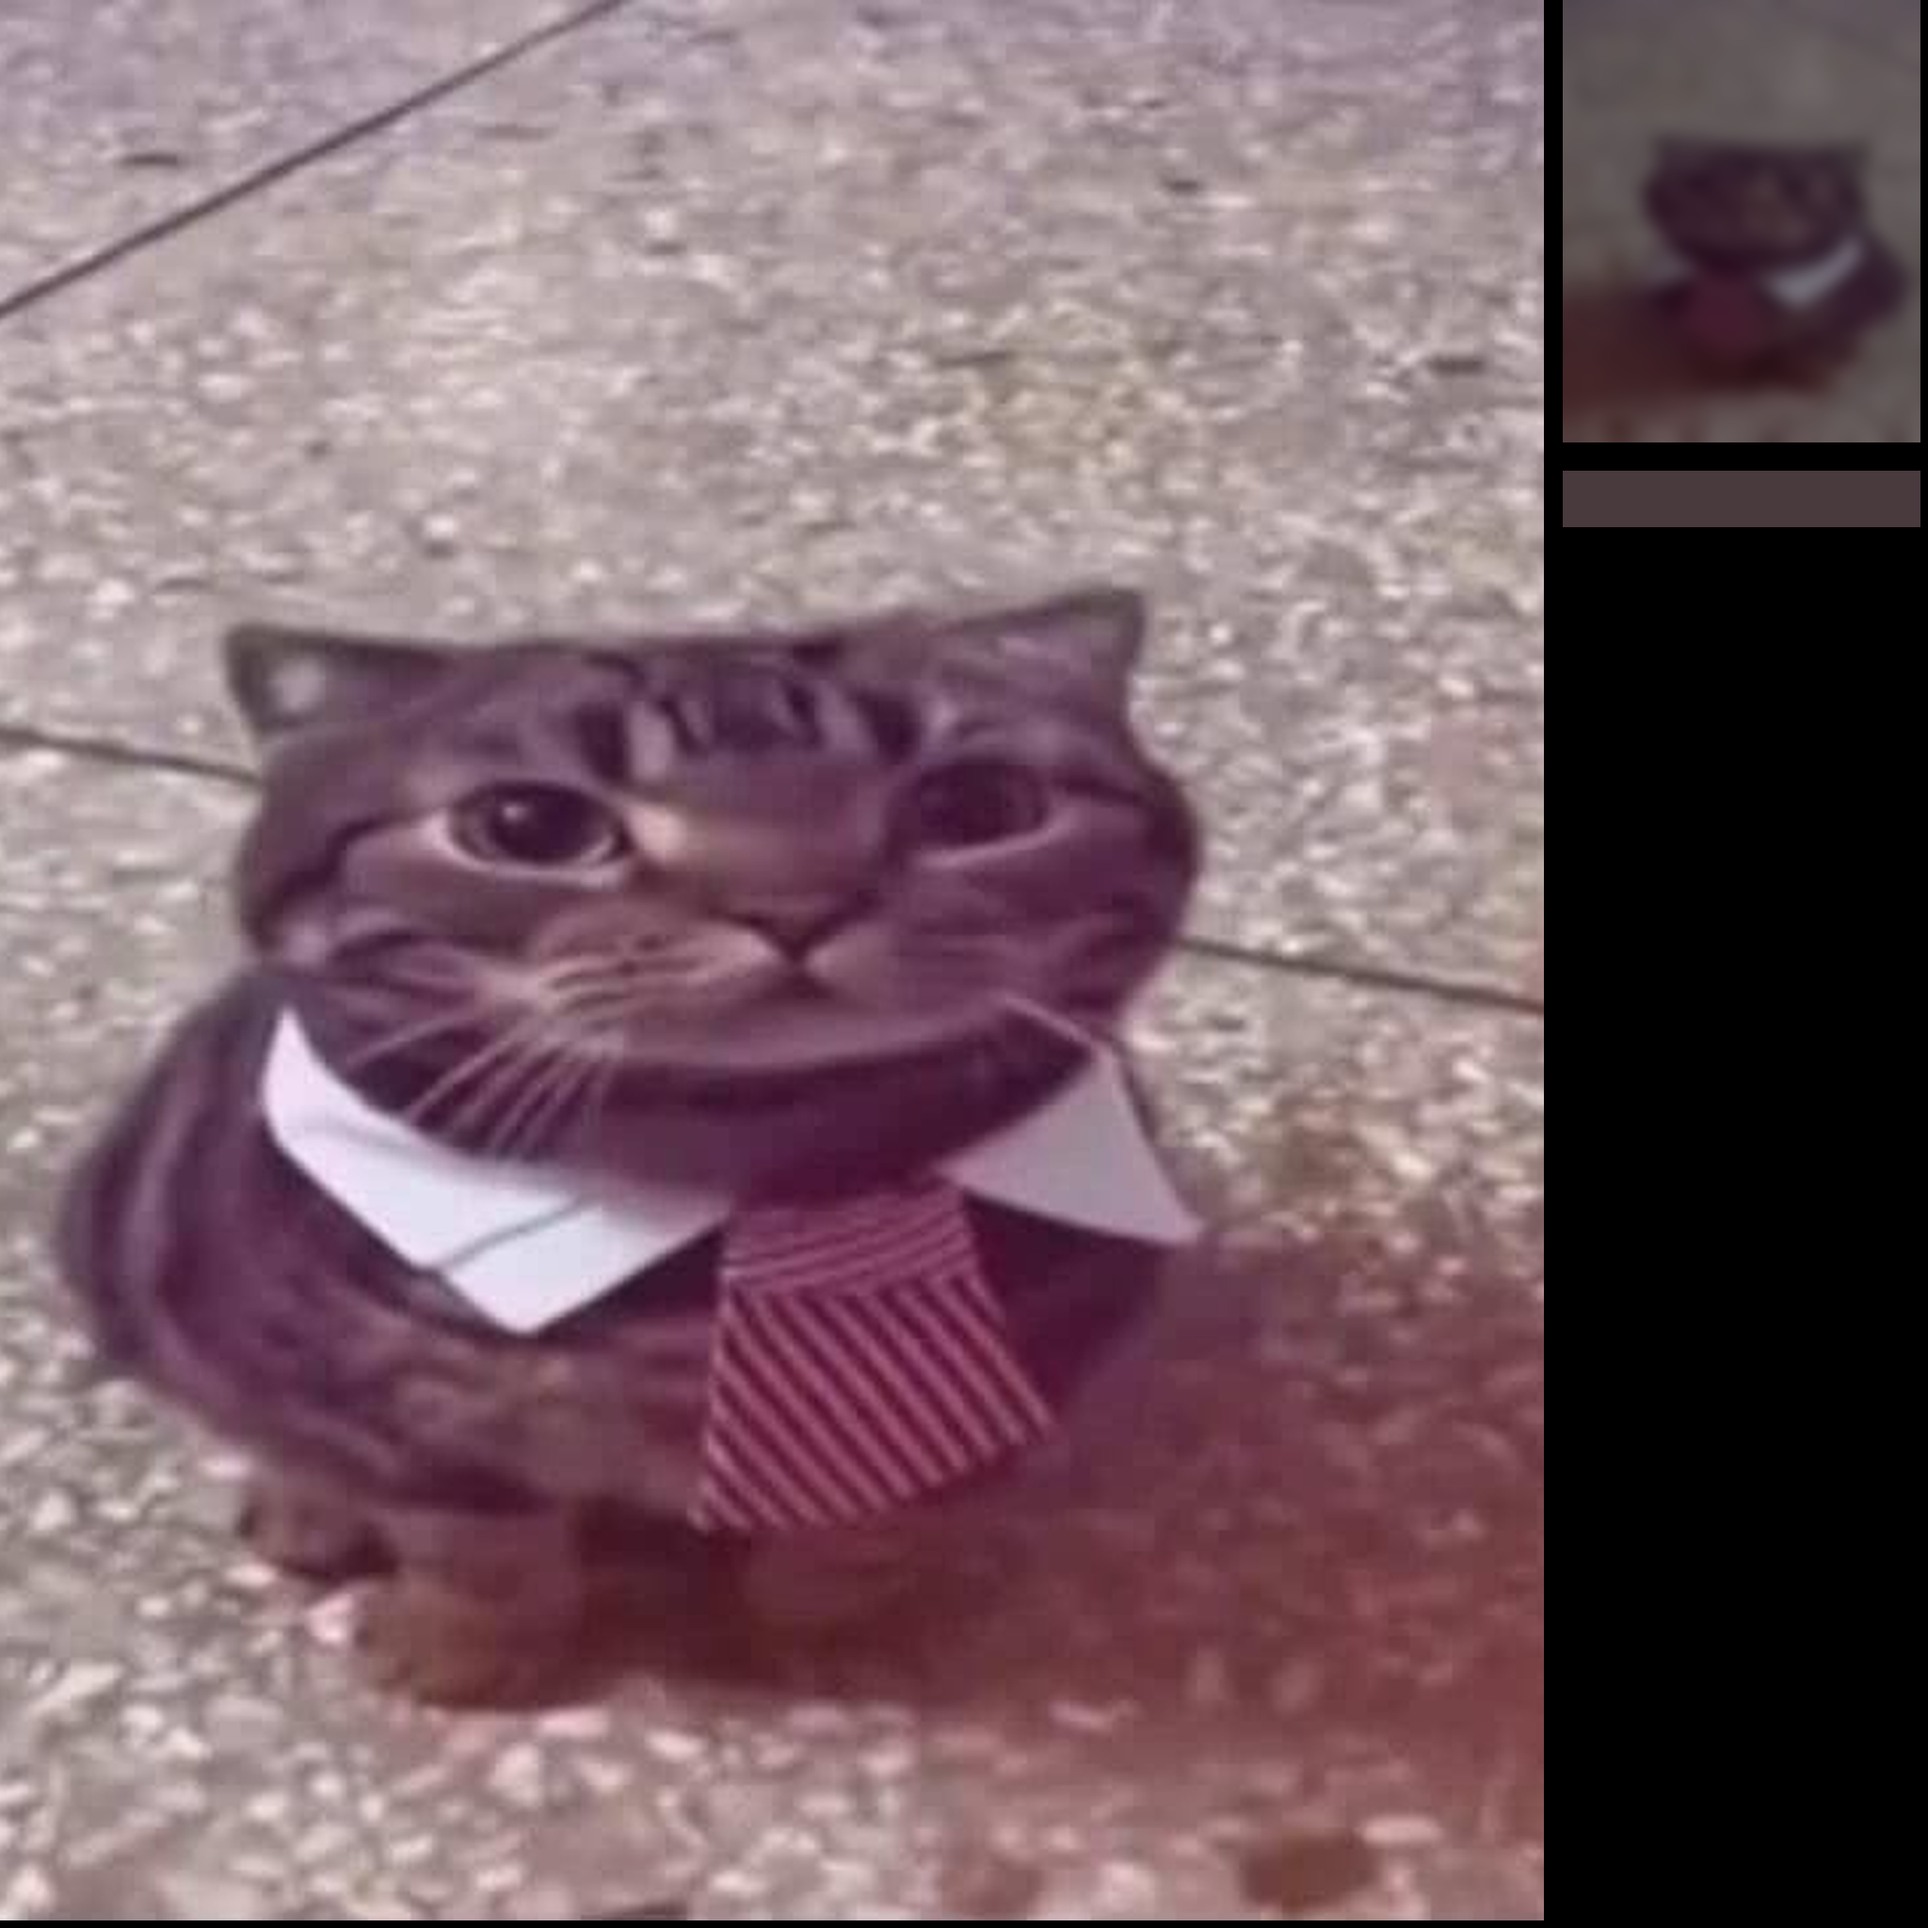
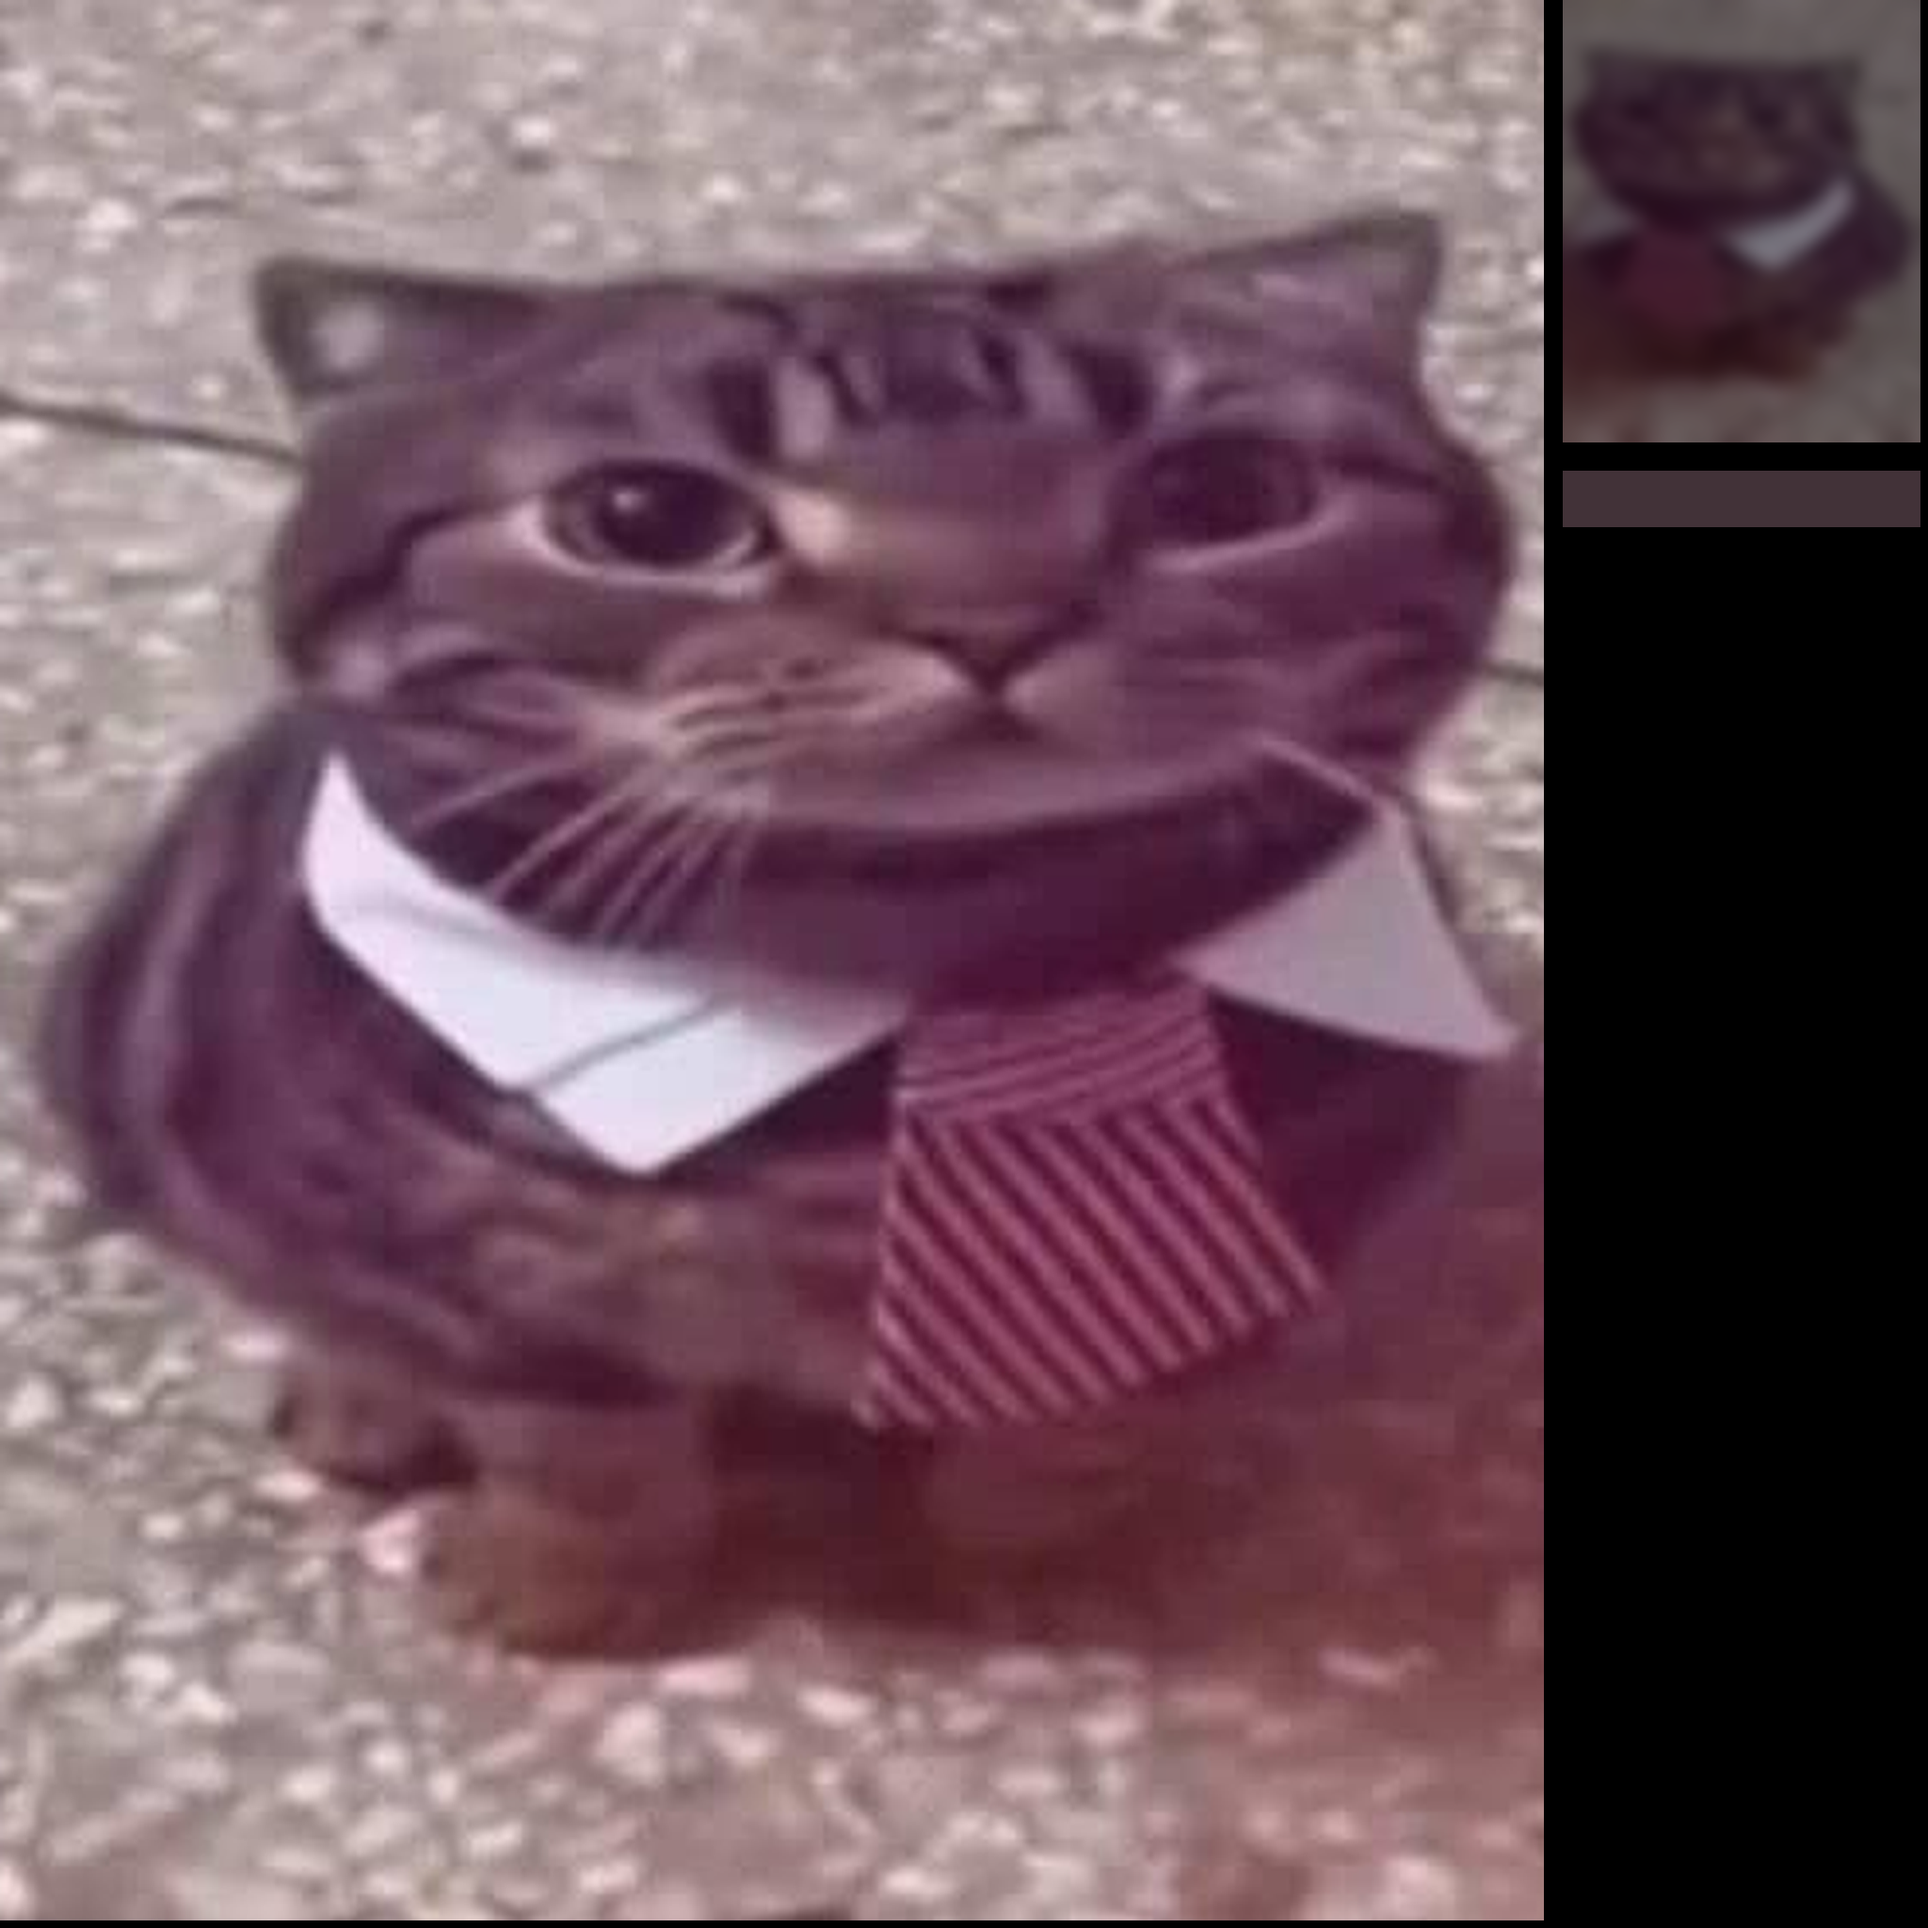
Cape: centre the cat-with-tie texture on its subject
Adds an optional focus crop (centre + window height) to the texture
script and regenerates the texture centred on the cat.

Claude-Session: https://claude.ai/code/session_01CBiVd3ZWL3jTbGYT9TER3c

diff --git a/Cape_Image/_scripts/cape.py b/Cape_Image/_scripts/cape.py
@@ -37,8 +37,11 @@ def build():
             if np.cross(T[1]-T[0],T[2]-T[0])@((T[0]+T[1]+T[2])/3-ctr)<0: T=[T[0],T[2],T[1]]
             tris.append(T); uvs.append([eu[a],eu[b],eu[c]])
     return np.array(tris),np.array(uvs)
-def tex(img_path,out=None):
+def tex(img_path,out=None,focus=None):
     im=Image.open(img_path).convert('RGB'); x0,y0,x1,y1=FR; W,H=x1-x0,y1-y0
+    if focus:                                   # focus=(cx,cy,h) in source pixels: crop a portrait window centred on the subject
+        cx,cy,h=focus; w=h*W/H; l=min(max(cx-w/2,0),im.width-w); t=min(max(cy-h/2,0),im.height-h)
+        im=im.crop((round(l),round(t),round(l+w),round(t+h)))
     s=max(W/im.width,H/im.height); im=im.resize((round(im.width*s),round(im.height*s)),Image.LANCZOS)
     l=(im.width-W)//2; t=(im.height-H)//2; im=im.crop((l,t,l+W,t+H))           # cover-crop: centre kept, never stretched
     A=Image.new('RGB',(N,N)); A.paste(im,(x0,y0))
@@ -48,7 +51,7 @@ def tex(img_path,out=None):
     edge=tuple((np.asarray(im).reshape(-1,3).mean(0)*0.5).astype(int)); A.paste(edge,ED)
     out=out or os.path.join(OUTDIR,'Cape_Color.png'); A.save(out); print('texture ->',out); return out
 if __name__=='__main__':
-    if sys.argv[1]=='tex': tex(sys.argv[2],sys.argv[3] if len(sys.argv)>3 else None)
+    if sys.argv[1]=='tex': tex(sys.argv[2],sys.argv[3] if len(sys.argv)>3 else None,tuple(map(float,sys.argv[4:7])) if len(sys.argv)>6 else None)
     else:
         T,UVt=build(); np.savez(os.path.join(HERE,'cape_geo.npz'),V=T.reshape(-1,3),F=np.arange(len(T)*3).reshape(-1,3),UVc=UVt)
         print('triangles',len(T))

diff --git a/Cape_Image/README.md b/Cape_Image/README.md
@@ -12,6 +12,6 @@
 ```
 python3 _scripts/cape.py tex mon_image.png
 ```
-→ crée `Cape_Color.png`. L'image est recadrée au centre aux proportions de la cape (environ 4:5, portrait) : rien n'est étiré, seuls les bords qui dépassent sont coupés. Pour un rendu idéal, envoie une image en portrait avec le sujet au centre ; les coins du haut sont un peu coupés par la forme en trapèze.
+→ crée `Cape_Color.png`. Pour centrer un sujet : `python3 _scripts/cape.py tex image.png sortie.png CX CY H` (centre du sujet et hauteur du cadre, en pixels de l image source). L'image est recadrée au centre aux proportions de la cape (environ 4:5, portrait) : rien n'est étiré, seuls les bords qui dépassent sont coupés. Pour un rendu idéal, envoie une image en portrait avec le sujet au centre ; les coins du haut sont un peu coupés par la forme en trapèze.
 
 `Cape_Color_example.png` : exemple avec le chat. `preview_on_rig.png` : aperçu sur le rig.
